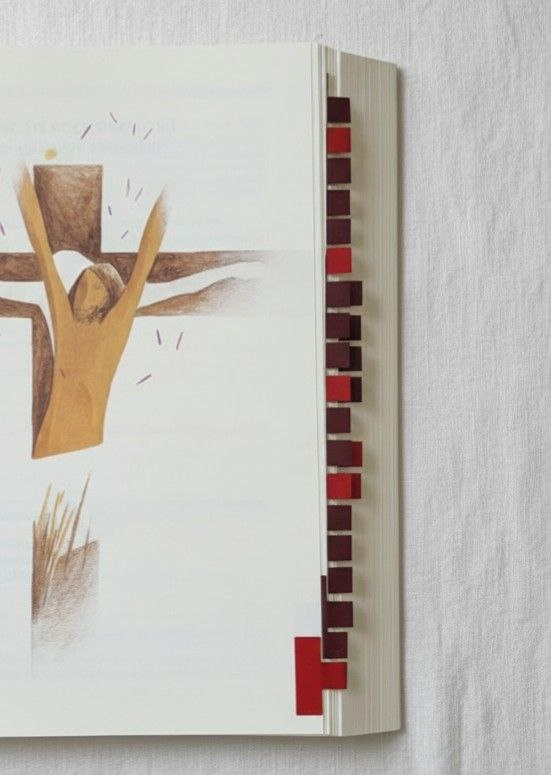
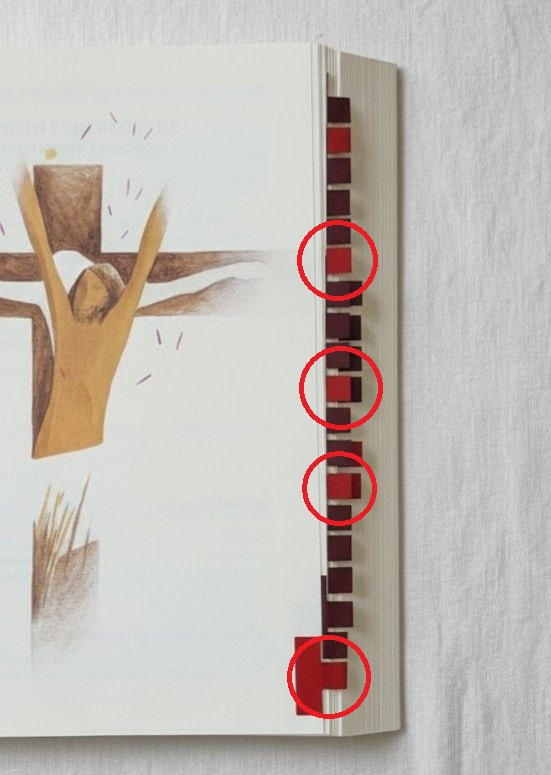
Refactor header background color in style.scss for consistency; add content and images to index.md for clarity

diff --git a/assets/css/style.scss b/assets/css/style.scss
@@ -9,7 +9,7 @@
 }
 
 header {
-  background-color: url(../images/background.png) #eae6d1;
+  background-color: #eae6d1;
 }
 
 header h1, header h2, header h3, header p {

diff --git a/index.md b/index.md
@@ -231,6 +231,8 @@ Neste momento também são, tipicamente, lidas as intenções que os fieis pedir
 ## Liturgia Eucarística
 A Liturgia Eucarística é o coração da Missa. Nela, os dons de pão e vinho são apresentados, consagrados e distribuídos aos fiéis como Corpo e Sangue de Cristo. Este rito renova o sacrifício de Cristo na cruz e une os participantes à sua entrega.
 
+Caso se esteja a usar o Missal da Presidência, o acólito deve mudar para o Missal completo nesta parte da missa, que será colocado numa estante sobre o altar e aberto na página com a oração sobre as oblatas. O Missal da Presidencia e respetiva estante são arrumados de forma a não atrapalhar o sacerdote ou o movimento dos acólitos durante a celebração.
+
 ### Oração Sobre as Oblatas
 Oração sobre os dons apresentados (pão e vinho), pedindo que Deus os aceite e os transforme para nossa salvação.
 
@@ -247,8 +249,24 @@ Oração central da Missa, que inclui:
 - **Intercessões**: pela Igreja, pelos vivos e pelos defuntos.
 - **Doxologia Final**: louvor final, concluído pelo "Amém" da assembleia.
 
+Existem várias orações eucarísticas. As mais usadas são a I, II, III e IV.
+
+Estão localizadas nas pegas claras da imagem, de baixo para cima.
+
+![Orações Eucarísticas no Missal](imgs/orações%20eucaristicas.jpg)
+
+Atenção que as Orações Eucaristicas têm o seu proprio prefácio. Caso a celebração utilize um prefácio especial, o da Oração Eucaristica não deve ser lido. Pode-se fazer uso das pegas escuras para saltar o prefácio da Oração Eucaristica.
+
+Também temos as Orações Eucarísticas da Reconciliação (na imagem são as pegas claras) e a Oração Eucarística V/"para diversas necessidades", que tem 4 variantes (pegas escuras).
+
+![Orações Eucarísticas da Reconciliação no Missal](imgs/oracoes%20eucaristicas%202.jpg)
+
 ### Ritos da Comunhão
 Têm como objetivo preparar os fiéis para receberem o Corpo e Sangue de Cristo e viverem plenamente a união com Deus e com a comunidade. Incluem orações e gestos que expressam reconciliação, paz e gratidão.
+
+Estão localizados na pega clara mais acima.
+
+![Ritos da Comunhão no Missal](imgs/ritos%20da%20comunhao.jpg)
 
 #### Pai Nosso
 Oração ensinada por Jesus, rezada por toda a assembleia como preparação para a comunhão.
@@ -265,13 +283,24 @@ Invocação a Cristo como Cordeiro que tira o pecado do mundo, acompanhando a fr
 #### Oração depois da Comunhão
 Ação de graças pelos dons recebidos, pedindo que a Eucaristia produza frutos na vida cristã.
 
+Caso se esteja a usar o Missal da Presidência, o acólito deve arrumar o Missal completo que está sobre o altar e repor o Missal da Presidência e respetiva estante nesta parte da missa.
+
+Aqui o acólito deve voltar à página própria do tempo ou dos santos, missa comum ou votiva, conforme a marcação da missa do dia.
+
 ---
 
 ## Ritos da Conclusão
 Encerram a celebração e enviam os fiéis para viverem a fé no dia a dia. É um momento breve, mas essencial, que reforça a missão cristã no mundo.
+
+Encontram-se na pega escura mais acima do Missal.
+
+![Ritos da Conclusão no Missal](imgs/ritos%20conclusao%20missal.jpg)
+
+![Ritos da Conclusão no Missal da Presidencia](imgs/ritos%20conclusao%20presi.jpg)
 
 ### Bênção Final
 Sacerdote abençoa a assembleia, invocando a proteção e a graça de Deus. Em ocasiões especiais pode ser dada uma Bênção Solene.
 
 ### Envio
 Despedida e envio para viver a fé no dia a dia, com a missão de anunciar o Evangelho com as nossas vidas.
+
